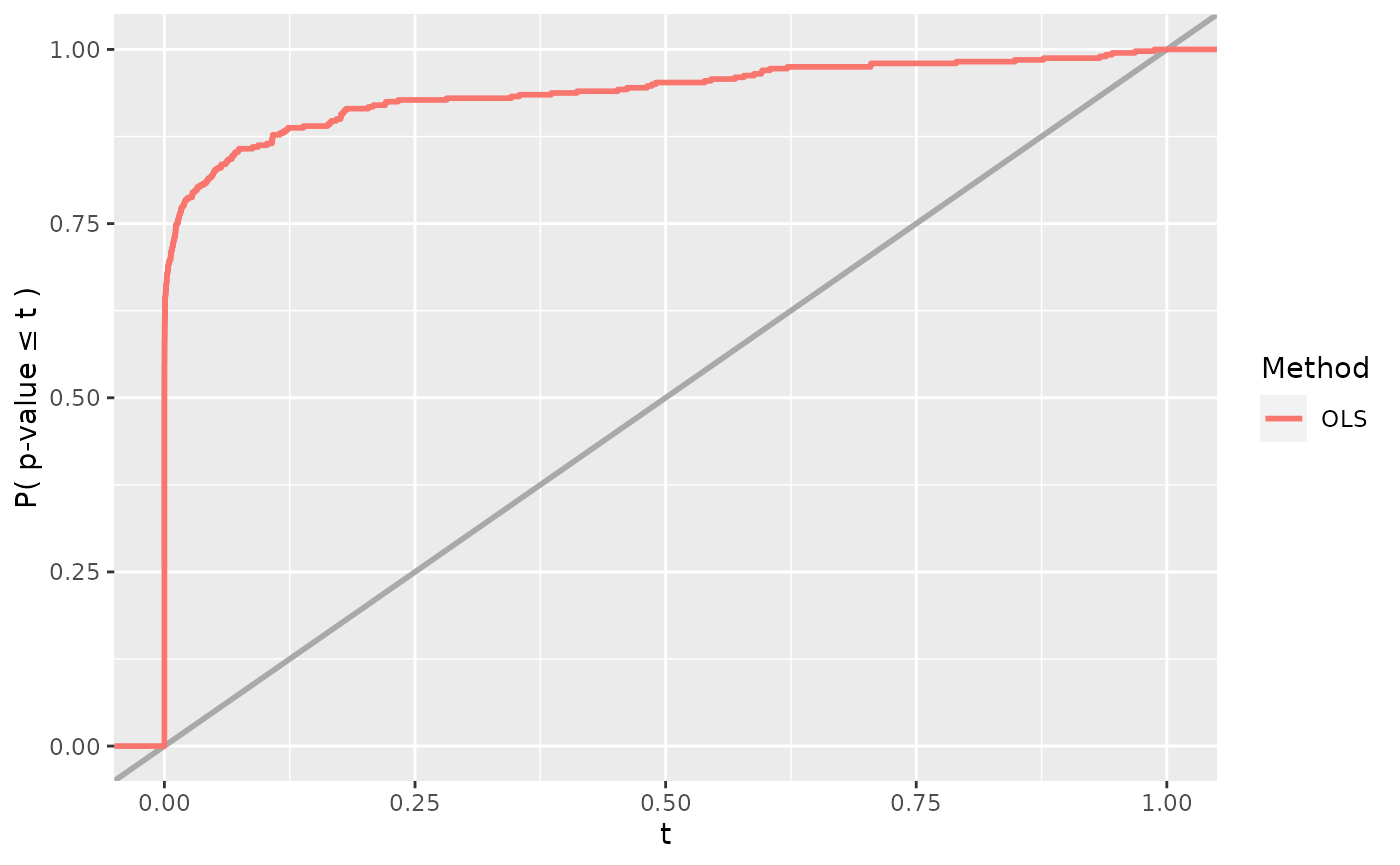
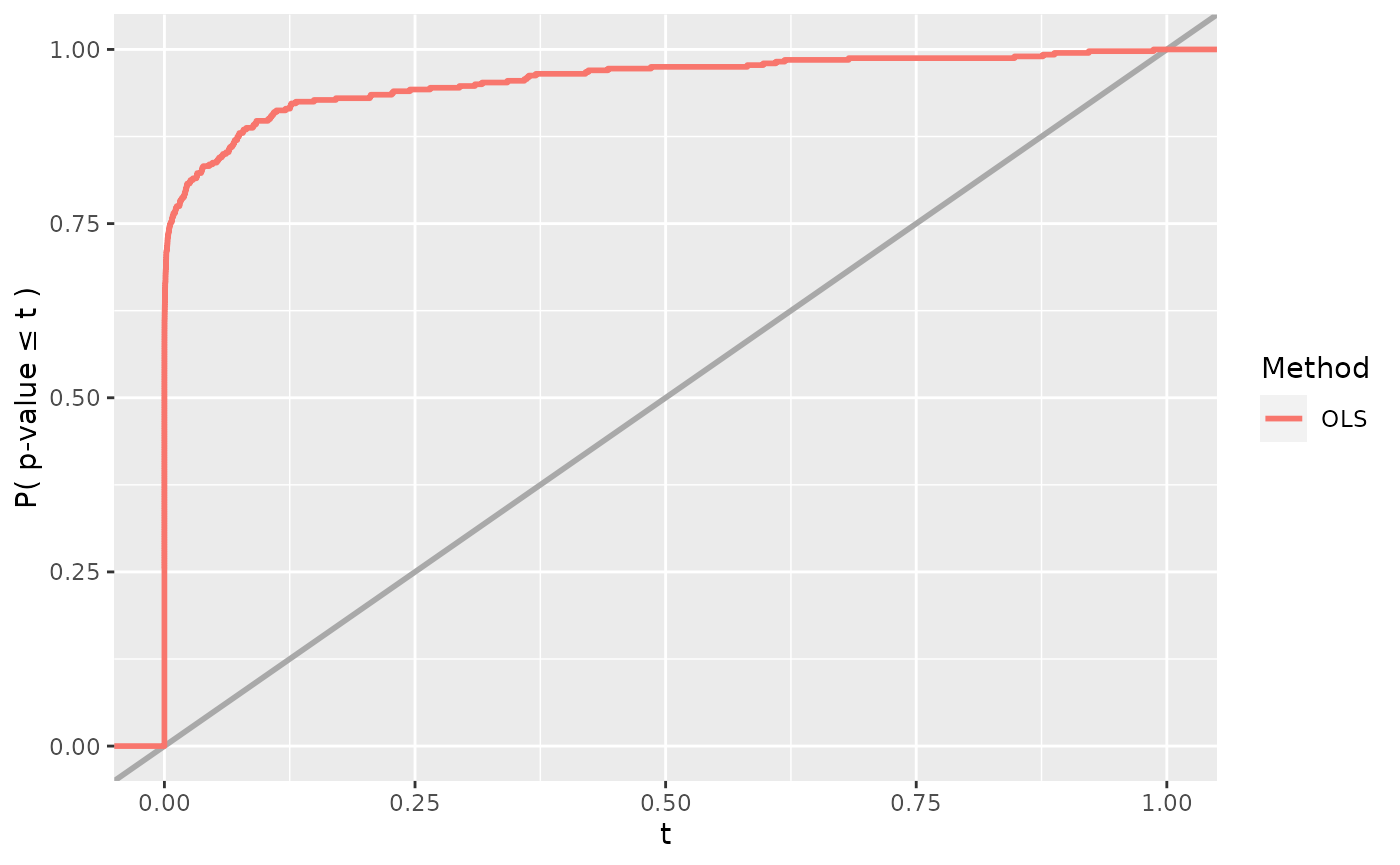
Built site for simChef: 0.0.0.9000@5c6629a

Changed region(s): [[0.0921, 0.0312, 0.7986, 0.3121]]

diff --git a/articles/simChef.html b/articles/simChef.html
@@ -269,20 +269,20 @@
 <div class="sourceCode" id="cb14"><pre class="downlit sourceCode r">
 <code class="sourceCode R"><span class="va">results</span> <span class="op">&lt;-</span> <span class="va">experiment</span><span class="op">$</span><span class="fu">run</span><span class="op">(</span>n_reps <span class="op">=</span> <span class="fl">100</span>, save <span class="op">=</span> <span class="cn">TRUE</span><span class="op">)</span>
 <span class="co">#&gt; Fitting Linear Regression Experiment...</span>
-<span class="co">#&gt; Fitting completed | time taken: 0.023753 minutes</span>
+<span class="co">#&gt; Fitting completed | time taken: 0.020864 minutes</span>
 <span class="co">#&gt; Saving fit results...</span>
-<span class="co">#&gt; Fit results saved | time taken: 0.010340 seconds</span>
+<span class="co">#&gt; Fit results saved | time taken: 0.012990 seconds</span>
 <span class="co">#&gt; ==============================</span>
 <span class="co">#&gt; Evaluating Linear Regression Experiment...</span>
 <span class="co">#&gt; `summarise()` has grouped output by 'dgp_name'. You can override using the `.groups` argument.</span>
-<span class="co">#&gt; Evaluation completed | time taken: 0.000217 minutes</span>
+<span class="co">#&gt; Evaluation completed | time taken: 0.000205 minutes</span>
 <span class="co">#&gt; Saving eval results...</span>
-<span class="co">#&gt; Eval results saved | time taken: 0.011737 seconds</span>
+<span class="co">#&gt; Eval results saved | time taken: 0.013946 seconds</span>
 <span class="co">#&gt; ==============================</span>
 <span class="co">#&gt; Visualizing Linear Regression Experiment...</span>
-<span class="co">#&gt; Visualization completed | time taken: 0.001805 minutes</span>
+<span class="co">#&gt; Visualization completed | time taken: 0.001795 minutes</span>
 <span class="co">#&gt; Saving visualize results...</span>
-<span class="co">#&gt; Visualize results saved | time taken: 0.054536 seconds</span>
+<span class="co">#&gt; Visualize results saved | time taken: 0.057298 seconds</span>
 <span class="co">#&gt; ==============================</span></code></pre></div>
 <p>or alternatively,</p>
 <div class="sourceCode" id="cb15"><pre class="downlit sourceCode r">
@@ -310,16 +310,16 @@
 <span class="co">#&gt; # A tibble: 100 × 5</span>
 <span class="co">#&gt;    rep   dgp_name            method_name `X1 p-value` `X2 p-value`</span>
 <span class="co">#&gt;    &lt;chr&gt; &lt;chr&gt;               &lt;chr&gt;              &lt;dbl&gt;        &lt;dbl&gt;</span>
-<span class="co">#&gt;  1 1     Linear Gaussian DGP OLS             2.17e-31        0.393</span>
-<span class="co">#&gt;  2 2     Linear Gaussian DGP OLS             3.90e-32        0.965</span>
-<span class="co">#&gt;  3 3     Linear Gaussian DGP OLS             1.07e-37        0.944</span>
-<span class="co">#&gt;  4 4     Linear Gaussian DGP OLS             1.99e-28        0.436</span>
-<span class="co">#&gt;  5 5     Linear Gaussian DGP OLS             4.50e-33        0.232</span>
-<span class="co">#&gt;  6 6     Linear Gaussian DGP OLS             2.60e-26        0.302</span>
-<span class="co">#&gt;  7 7     Linear Gaussian DGP OLS             9.71e-27        0.655</span>
-<span class="co">#&gt;  8 8     Linear Gaussian DGP OLS             6.34e-33        0.331</span>
-<span class="co">#&gt;  9 9     Linear Gaussian DGP OLS             8.26e-38        0.833</span>
-<span class="co">#&gt; 10 10    Linear Gaussian DGP OLS             8.27e-26        0.877</span>
+<span class="co">#&gt;  1 1     Linear Gaussian DGP OLS             1.76e-34       0.448 </span>
+<span class="co">#&gt;  2 2     Linear Gaussian DGP OLS             1.12e-31       0.128 </span>
+<span class="co">#&gt;  3 3     Linear Gaussian DGP OLS             1.60e-26       0.935 </span>
+<span class="co">#&gt;  4 4     Linear Gaussian DGP OLS             1.29e-33       0.504 </span>
+<span class="co">#&gt;  5 5     Linear Gaussian DGP OLS             6.91e-29       0.714 </span>
+<span class="co">#&gt;  6 6     Linear Gaussian DGP OLS             6.81e-25       0.254 </span>
+<span class="co">#&gt;  7 7     Linear Gaussian DGP OLS             2.29e-31       0.167 </span>
+<span class="co">#&gt;  8 8     Linear Gaussian DGP OLS             1.26e-34       0.0569</span>
+<span class="co">#&gt;  9 9     Linear Gaussian DGP OLS             1.15e-31       0.501 </span>
+<span class="co">#&gt; 10 10    Linear Gaussian DGP OLS             5.02e-32       0.737 </span>
 <span class="co">#&gt; # … with 90 more rows</span>
 <span class="va">results</span><span class="op">$</span><span class="va">eval_results</span>
 <span class="co">#&gt; $`Rejection Prob. (alpha = 0.1)`</span>
@@ -374,26 +374,26 @@
 <div class="sourceCode" id="cb21"><pre class="downlit sourceCode r">
 <code class="sourceCode R"><span class="va">vary_results</span> <span class="op">&lt;-</span> <span class="va">experiment</span><span class="op">$</span><span class="fu">run</span><span class="op">(</span>n_reps <span class="op">=</span> <span class="fl">100</span>, save <span class="op">=</span> <span class="cn">TRUE</span><span class="op">)</span>
 <span class="co">#&gt; Fitting Linear Regression Experiment...</span>
-<span class="co">#&gt; Fitting completed | time taken: 0.055848 minutes</span>
+<span class="co">#&gt; Fitting completed | time taken: 0.047861 minutes</span>
 <span class="co">#&gt; Saving fit results...</span>
-<span class="co">#&gt; Fit results saved | time taken: 0.024850 seconds</span>
+<span class="co">#&gt; Fit results saved | time taken: 0.022884 seconds</span>
 <span class="co">#&gt; ==============================</span>
 <span class="co">#&gt; Evaluating Linear Regression Experiment...</span>
-<span class="co">#&gt; Evaluation completed | time taken: 0.000284 minutes</span>
+<span class="co">#&gt; Evaluation completed | time taken: 0.000265 minutes</span>
 <span class="co">#&gt; Saving eval results...</span>
-<span class="co">#&gt; Eval results saved | time taken: 0.020658 seconds</span>
+<span class="co">#&gt; Eval results saved | time taken: 0.021625 seconds</span>
 <span class="co">#&gt; ==============================</span>
 <span class="co">#&gt; Visualizing Linear Regression Experiment...</span>
-<span class="co">#&gt; Visualization completed | time taken: 0.000271 minutes</span>
+<span class="co">#&gt; Visualization completed | time taken: 0.000215 minutes</span>
 <span class="co">#&gt; Saving visualize results...</span>
-<span class="co">#&gt; Visualize results saved | time taken: 0.062674 seconds</span>
+<span class="co">#&gt; Visualize results saved | time taken: 0.068065 seconds</span>
 <span class="co">#&gt; ==============================</span>
 <span class="va">vary_results</span><span class="op">$</span><span class="va">eval_results</span>
 <span class="co">#&gt; $`Rejection Prob. (alpha = 0.1)`</span>
 <span class="co">#&gt; # A tibble: 1 × 4</span>
 <span class="co">#&gt;   dgp_name            method_name `X1 Reject Prob.` `X2 Reject Prob.`</span>
 <span class="co">#&gt;   &lt;chr&gt;               &lt;chr&gt;                   &lt;dbl&gt;             &lt;dbl&gt;</span>
-<span class="co">#&gt; 1 Linear Gaussian DGP OLS                     0.862             0.085</span>
+<span class="co">#&gt; 1 Linear Gaussian DGP OLS                     0.898            0.0925</span>
 <span class="va">vary_results</span><span class="op">$</span><span class="va">visualize_results</span>
 <span class="co">#&gt; $Power</span></code></pre></div>
 <p><img src="simChef_files/figure-html/unnamed-chunk-22-1.png" width="700"></p>
@@ -446,29 +446,29 @@
   <span class="fu"><a href="../reference/update_funs.html">update_visualizer</a></span><span class="op">(</span><span class="va">power_plot</span>, name <span class="op">=</span> <span class="st">"Power"</span><span class="op">)</span> <span class="op">%&gt;%</span>
   <span class="fu"><a href="../reference/run_experiment.html">run_experiment</a></span><span class="op">(</span>n_reps <span class="op">=</span> <span class="fl">100</span>, save <span class="op">=</span> <span class="cn">TRUE</span><span class="op">)</span>
 <span class="co">#&gt; Fitting Linear Regression Experiment...</span>
-<span class="co">#&gt; Fitting completed | time taken: 0.056927 minutes</span>
+<span class="co">#&gt; Fitting completed | time taken: 0.048276 minutes</span>
 <span class="co">#&gt; Saving fit results...</span>
-<span class="co">#&gt; Fit results saved | time taken: 0.023065 seconds</span>
+<span class="co">#&gt; Fit results saved | time taken: 0.022964 seconds</span>
 <span class="co">#&gt; ==============================</span>
 <span class="co">#&gt; Evaluating Linear Regression Experiment...</span>
-<span class="co">#&gt; Evaluation completed | time taken: 0.000189 minutes</span>
+<span class="co">#&gt; Evaluation completed | time taken: 0.000159 minutes</span>
 <span class="co">#&gt; Saving eval results...</span>
-<span class="co">#&gt; Eval results saved | time taken: 0.021302 seconds</span>
+<span class="co">#&gt; Eval results saved | time taken: 0.021920 seconds</span>
 <span class="co">#&gt; ==============================</span>
 <span class="co">#&gt; Visualizing Linear Regression Experiment...</span>
-<span class="co">#&gt; Visualization completed | time taken: 0.000467 minutes</span>
+<span class="co">#&gt; Visualization completed | time taken: 0.000383 minutes</span>
 <span class="co">#&gt; Saving visualize results...</span>
-<span class="co">#&gt; Visualize results saved | time taken: 0.074160 seconds</span>
+<span class="co">#&gt; Visualize results saved | time taken: 0.078570 seconds</span>
 <span class="co">#&gt; ==============================</span>
 <span class="va">vary_results</span><span class="op">$</span><span class="va">eval_results</span>
 <span class="co">#&gt; $`Rejection Prob. (alpha = 0.1)`</span>
 <span class="co">#&gt; # A tibble: 4 × 5</span>
 <span class="co">#&gt;   dgp_name            method_name sigma `X1 Reject Prob.` `X2 Reject Prob.`</span>
 <span class="co">#&gt;   &lt;chr&gt;               &lt;chr&gt;       &lt;dbl&gt;             &lt;dbl&gt;             &lt;dbl&gt;</span>
-<span class="co">#&gt; 1 Linear Gaussian DGP OLS             1              1                 0.11</span>
-<span class="co">#&gt; 2 Linear Gaussian DGP OLS             2              1                 0.09</span>
-<span class="co">#&gt; 3 Linear Gaussian DGP OLS             4              0.96              0.03</span>
-<span class="co">#&gt; 4 Linear Gaussian DGP OLS             8              0.54              0.08</span>
+<span class="co">#&gt; 1 Linear Gaussian DGP OLS             1              1                 0.04</span>
+<span class="co">#&gt; 2 Linear Gaussian DGP OLS             2              1                 0.14</span>
+<span class="co">#&gt; 3 Linear Gaussian DGP OLS             4              0.97              0.1 </span>
+<span class="co">#&gt; 4 Linear Gaussian DGP OLS             8              0.63              0.11</span>
 <span class="va">vary_results</span><span class="op">$</span><span class="va">visualize_results</span>
 <span class="co">#&gt; $Power</span></code></pre></div>
 <p><img src="simChef_files/figure-html/unnamed-chunk-25-1.png" width="700"></p>
@@ -519,19 +519,19 @@
                               <span class="fu"><a href="https://rdrr.io/r/base/c.html">c</a></span><span class="op">(</span><span class="fl">1</span>, <span class="fl">2</span><span class="op">)</span><span class="op">)</span><span class="op">)</span> <span class="op">%&gt;%</span>
   <span class="fu"><a href="../reference/run_experiment.html">run_experiment</a></span><span class="op">(</span>n_reps <span class="op">=</span> <span class="fl">100</span>, save <span class="op">=</span> <span class="cn">TRUE</span><span class="op">)</span>
 <span class="co">#&gt; Fitting Linear Regression Experiment...</span>
-<span class="co">#&gt; Fitting completed | time taken: 0.128135 minutes</span>
+<span class="co">#&gt; Fitting completed | time taken: 0.107205 minutes</span>
 <span class="co">#&gt; Saving fit results...</span>
-<span class="co">#&gt; Fit results saved | time taken: 0.026384 seconds</span>
+<span class="co">#&gt; Fit results saved | time taken: 0.030394 seconds</span>
 <span class="co">#&gt; ==============================</span>
 <span class="co">#&gt; Evaluating Linear Regression Experiment...</span>
-<span class="co">#&gt; Evaluation completed | time taken: 0.000389 minutes</span>
+<span class="co">#&gt; Evaluation completed | time taken: 0.000289 minutes</span>
 <span class="co">#&gt; Saving eval results...</span>
-<span class="co">#&gt; Eval results saved | time taken: 0.027301 seconds</span>
+<span class="co">#&gt; Eval results saved | time taken: 0.028269 seconds</span>
 <span class="co">#&gt; ==============================</span>
 <span class="co">#&gt; Visualizing Linear Regression Experiment...</span>
-<span class="co">#&gt; Visualization completed | time taken: 0.004436 minutes</span>
+<span class="co">#&gt; Visualization completed | time taken: 0.003740 minutes</span>
 <span class="co">#&gt; Saving visualize results...</span>
-<span class="co">#&gt; Visualize results saved | time taken: 0.109635 seconds</span>
+<span class="co">#&gt; Visualize results saved | time taken: 0.126643 seconds</span>
 <span class="co">#&gt; ==============================</span>
 <span class="co"># run experiment across values of rho (correlation)</span>
 <span class="va">vary_cor_results</span> <span class="op">&lt;-</span> <span class="va">experiment</span> <span class="op">%&gt;%</span>
@@ -540,19 +540,19 @@
                   rho <span class="op">=</span> <span class="fu"><a href="https://rdrr.io/r/base/c.html">c</a></span><span class="op">(</span><span class="fl">0</span>, <span class="fl">0.2</span>, <span class="fl">0.5</span>, <span class="fl">0.9</span><span class="op">)</span><span class="op">)</span> <span class="op">%&gt;%</span>
   <span class="fu"><a href="../reference/run_experiment.html">run_experiment</a></span><span class="op">(</span>n_reps <span class="op">=</span> <span class="fl">100</span>, save <span class="op">=</span> <span class="cn">TRUE</span><span class="op">)</span>
 <span class="co">#&gt; Fitting Linear Regression Experiment...</span>
-<span class="co">#&gt; Fitting completed | time taken: 0.058162 minutes</span>
+<span class="co">#&gt; Fitting completed | time taken: 0.050296 minutes</span>
 <span class="co">#&gt; Saving fit results...</span>
-<span class="co">#&gt; Fit results saved | time taken: 0.026913 seconds</span>
+<span class="co">#&gt; Fit results saved | time taken: 0.029073 seconds</span>
 <span class="co">#&gt; ==============================</span>
 <span class="co">#&gt; Evaluating Linear Regression Experiment...</span>
-<span class="co">#&gt; Evaluation completed | time taken: 0.000193 minutes</span>
+<span class="co">#&gt; Evaluation completed | time taken: 0.000159 minutes</span>
 <span class="co">#&gt; Saving eval results...</span>
-<span class="co">#&gt; Eval results saved | time taken: 0.024619 seconds</span>
+<span class="co">#&gt; Eval results saved | time taken: 0.029531 seconds</span>
 <span class="co">#&gt; ==============================</span>
 <span class="co">#&gt; Visualizing Linear Regression Experiment...</span>
-<span class="co">#&gt; Visualization completed | time taken: 0.001993 minutes</span>
+<span class="co">#&gt; Visualization completed | time taken: 0.001698 minutes</span>
 <span class="co">#&gt; Saving visualize results...</span>
-<span class="co">#&gt; Visualize results saved | time taken: 0.115325 seconds</span>
+<span class="co">#&gt; Visualize results saved | time taken: 0.126231 seconds</span>
 <span class="co">#&gt; ==============================</span></code></pre></div>
 </div>
 <div id="experiment-as-an-r6-class" class="section level2">
@@ -705,15 +705,15 @@
 <div class="sourceCode" id="cb36"><pre class="downlit sourceCode r">
 <code class="sourceCode R"><span class="va">fit_results</span> <span class="op">&lt;-</span> <span class="va">experiment</span><span class="op">$</span><span class="fu">fit</span><span class="op">(</span>n_reps <span class="op">=</span> <span class="fl">100</span><span class="op">)</span>
 <span class="co">#&gt; Fitting Linear Regression Experiment...</span>
-<span class="co">#&gt; Fitting completed | time taken: 0.057523 minutes</span>
+<span class="co">#&gt; Fitting completed | time taken: 0.050354 minutes</span>
 <span class="co">#&gt; ==============================</span>
 <span class="va">eval_results</span> <span class="op">&lt;-</span> <span class="va">experiment</span><span class="op">$</span><span class="fu">evaluate</span><span class="op">(</span><span class="va">fit_results</span><span class="op">)</span>
 <span class="co">#&gt; Evaluating Linear Regression Experiment...</span>
-<span class="co">#&gt; Evaluation completed | time taken: 0.000216 minutes</span>
+<span class="co">#&gt; Evaluation completed | time taken: 0.000165 minutes</span>
 <span class="co">#&gt; ==============================</span>
 <span class="va">visualize_results</span> <span class="op">&lt;-</span> <span class="va">experiment</span><span class="op">$</span><span class="fu">visualize</span><span class="op">(</span><span class="va">fit_results</span>, <span class="va">eval_results</span><span class="op">)</span>
 <span class="co">#&gt; Visualizing Linear Regression Experiment...</span>
-<span class="co">#&gt; Visualization completed | time taken: 0.001797 minutes</span>
+<span class="co">#&gt; Visualization completed | time taken: 0.001536 minutes</span>
 <span class="co">#&gt; ==============================</span></code></pre></div>
 <p>or alternatively,</p>
 <div class="sourceCode" id="cb37"><pre class="downlit sourceCode r">
@@ -730,38 +730,38 @@
 <span class="co">#&gt;  $ Linear Gaussian DGP:List of 4</span>
 <span class="co">#&gt;   ..$ :List of 1</span>
 <span class="co">#&gt;   .. ..$ :List of 2</span>
-<span class="co">#&gt;   .. .. ..$ X: num [1:200, 1:2] -1.511 0.29 -0.557 0.169 -0.459 ...</span>
+<span class="co">#&gt;   .. .. ..$ X: num [1:200, 1:2] -0.136 1.015 -0.315 -1.315 1.958 ...</span>
 <span class="co">#&gt;   .. .. .. ..- attr(*, "dimnames")=List of 2</span>
 <span class="co">#&gt;   .. .. .. .. ..$ : NULL</span>
 <span class="co">#&gt;   .. .. .. .. ..$ : NULL</span>
-<span class="co">#&gt;   .. .. ..$ y: num [1:200, 1] -1.756 -0.514 1.576 0.387 -1.172 ...</span>
+<span class="co">#&gt;   .. .. ..$ y: num [1:200, 1] -0.0712 0.9183 -1.5969 -1.9723 3.0852 ...</span>
 <span class="co">#&gt;   .. ..- attr(*, "params")=List of 1</span>
 <span class="co">#&gt;   .. .. ..$ sigma: num 1</span>
 <span class="co">#&gt;   ..$ :List of 1</span>
 <span class="co">#&gt;   .. ..$ :List of 2</span>
-<span class="co">#&gt;   .. .. ..$ X: num [1:200, 1:2] -0.874 -1.289 -0.179 -0.608 0.712 ...</span>
+<span class="co">#&gt;   .. .. ..$ X: num [1:200, 1:2] 2.038 1.656 -0.793 0.508 -0.864 ...</span>
 <span class="co">#&gt;   .. .. .. ..- attr(*, "dimnames")=List of 2</span>
 <span class="co">#&gt;   .. .. .. .. ..$ : NULL</span>
 <span class="co">#&gt;   .. .. .. .. ..$ : NULL</span>
-<span class="co">#&gt;   .. .. ..$ y: num [1:200, 1] 1.2151 -5.4295 -0.3099 0.0279 -3.0058 ...</span>
+<span class="co">#&gt;   .. .. ..$ y: num [1:200, 1] 0.531 6.0084 -4.2992 -0.0693 -1.5052 ...</span>
 <span class="co">#&gt;   .. ..- attr(*, "params")=List of 1</span>
 <span class="co">#&gt;   .. .. ..$ sigma: num 2</span>
 <span class="co">#&gt;   ..$ :List of 1</span>
 <span class="co">#&gt;   .. ..$ :List of 2</span>
-<span class="co">#&gt;   .. .. ..$ X: num [1:200, 1:2] -0.5875 2.0067 0.0872 -1.2796 0.2322 ...</span>
+<span class="co">#&gt;   .. .. ..$ X: num [1:200, 1:2] 0.625 0.828 0.645 -0.161 1.48 ...</span>
 <span class="co">#&gt;   .. .. .. ..- attr(*, "dimnames")=List of 2</span>
 <span class="co">#&gt;   .. .. .. .. ..$ : NULL</span>
 <span class="co">#&gt;   .. .. .. .. ..$ : NULL</span>
-<span class="co">#&gt;   .. .. ..$ y: num [1:200, 1] -2.864 -0.317 2.557 -2.254 7.477 ...</span>
+<span class="co">#&gt;   .. .. ..$ y: num [1:200, 1] 3.60973 -2.02026 -1.42179 2.20126 0.00107 ...</span>
 <span class="co">#&gt;   .. ..- attr(*, "params")=List of 1</span>
 <span class="co">#&gt;   .. .. ..$ sigma: num 4</span>
 <span class="co">#&gt;   ..$ :List of 1</span>
 <span class="co">#&gt;   .. ..$ :List of 2</span>
-<span class="co">#&gt;   .. .. ..$ X: num [1:200, 1:2] 0.493 -0.635 -1.649 1.249 0.767 ...</span>
+<span class="co">#&gt;   .. .. ..$ X: num [1:200, 1:2] 2.253 0.201 0.2731 0.0851 -1.3794 ...</span>
 <span class="co">#&gt;   .. .. .. ..- attr(*, "dimnames")=List of 2</span>
 <span class="co">#&gt;   .. .. .. .. ..$ : NULL</span>
 <span class="co">#&gt;   .. .. .. .. ..$ : NULL</span>
-<span class="co">#&gt;   .. .. ..$ y: num [1:200, 1] 5.83 0.28 16.73 1.67 -1.66 ...</span>
+<span class="co">#&gt;   .. .. ..$ y: num [1:200, 1] -0.373 14.151 6.564 -5.272 5.887 ...</span>
 <span class="co">#&gt;   .. ..- attr(*, "params")=List of 1</span>
 <span class="co">#&gt;   .. .. ..$ sigma: num 8</span></code></pre></div>
 <p>or alternatively,</p>

diff --git a/reference/prettyDT.html b/reference/prettyDT.html
@@ -234,13 +234,13 @@ returns a list of two:</p><dl>
 <span class='co'>## Bold max value of each numeric column of Iris data in red</span>
 <span class='fu'>prettyDT</span><span class='op'>(</span><span class='va'>iris</span>, caption <span class='op'>=</span> <span class='st'>"Iris Data Table"</span>,
          bold_function <span class='op'>=</span> <span class='st'>". == max(.)"</span>, bold_margin <span class='op'>=</span> <span class='fl'>2</span>,
-         bold_scheme <span class='op'>=</span> <span class='fu'><a href='https://rdrr.io/r/base/c.html'>c</a></span><span class='op'>(</span><span class='cn'>T</span>, <span class='cn'>T</span>, <span class='cn'>T</span>, <span class='cn'>T</span>, <span class='cn'>F</span><span class='op'>)</span>, bold_color <span class='op'>=</span> <span class='st'>"red"</span><span class='op'>)</span>
+         bold_scheme <span class='op'>=</span> <span class='fu'><a href='https://rdrr.io/r/base/c.html'>c</a></span><span class='op'>(</span><span class='cn'>TRUE</span>, <span class='cn'>TRUE</span>, <span class='cn'>TRUE</span>, <span class='cn'>TRUE</span>, <span class='cn'>FALSE</span><span class='op'>)</span>, bold_color <span class='op'>=</span> <span class='st'>"red"</span><span class='op'>)</span>
             
 <span class='co'>## Bold min value of each row in Iris data</span>
 <span class='fu'>prettyDT</span><span class='op'>(</span><span class='va'>iris</span> <span class='op'>%&gt;%</span> <span class='fu'>dplyr</span><span class='fu'>::</span><span class='fu'><a href='https://dplyr.tidyverse.org/reference/select.html'>select</a></span><span class='op'>(</span><span class='op'>-</span><span class='va'>Species</span><span class='op'>)</span>, 
-         sigfig <span class='op'>=</span> <span class='cn'>T</span>, caption <span class='op'>=</span> <span class='st'>"Iris Data Table"</span>,
+         sigfig <span class='op'>=</span> <span class='cn'>TRUE</span>, caption <span class='op'>=</span> <span class='st'>"Iris Data Table"</span>,
          na_disp <span class='op'>=</span> <span class='st'>"NA"</span>, bold_function <span class='op'>=</span> <span class='st'>". == min(.)"</span>, bold_margin <span class='op'>=</span> <span class='fl'>1</span>,
-         bold_scheme <span class='op'>=</span> <span class='cn'>T</span>, bold_color <span class='op'>=</span> <span class='st'>"black"</span><span class='op'>)</span>
+         bold_scheme <span class='op'>=</span> <span class='cn'>TRUE</span>, bold_color <span class='op'>=</span> <span class='st'>"black"</span><span class='op'>)</span>
 </div></pre>
   </div>
   <div class="col-md-3 hidden-xs hidden-sm" id="pkgdown-sidebar">

diff --git a/reference/Visualizer.html b/reference/Visualizer.html
@@ -190,7 +190,7 @@ Markdown report; if <code>FALSE</code>, hide output in the R Markdown report.</p
 </dl><p></div></p>
 <h4 class='hasAnchor' id='arguments'><a class='anchor' href='#arguments'></a>Details</h4>
 <p>When visualizing or running the <code>Experiment</code> (see
-<code>Experiment$visualize() or <code>Experiment$run()</code></code>), the named
+<code>Experiment$visualize()</code> or <code>Experiment$run()</code>), the named
 arguments <code>fit_results</code>, <code>eval_results</code>, and
 <code>vary_params</code> are automatically passed into the <code>Visualizer</code>
 function <code>visualizer_fun()</code> and serve as placeholders for the

diff --git a/reference/Evaluator.html b/reference/Evaluator.html
@@ -185,7 +185,7 @@ R Markdown report.</p></dd>
 </dl><p></div></p>
 <h4 class='hasAnchor' id='arguments'><a class='anchor' href='#arguments'></a>Details</h4>
 <p>When evaluating or running the <code>Experiment</code> (see
-<code>Experiment$evaluate() or <code>Experiment$run()</code></code>), the named
+<code>Experiment$evaluate()</code> or <code>Experiment$run()</code>), the named
 arguments <code>fit_results</code> and <code>vary_params</code> are automatically
 passed into the <code>Evaluator</code> function <code>eval_fun()</code> and serve
 as placeholders for the <code>Experiment$fit()</code> results (i.e., the

diff --git a/articles/parallel.html b/articles/parallel.html
@@ -235,7 +235,7 @@
   <span class="op">)</span>
 <span class="op">)</span>
 <span class="co">#&gt; Fitting base...</span>
-<span class="co">#&gt; Fitting completed | time taken: 0.846709 minutes</span>
+<span class="co">#&gt; Fitting completed | time taken: 0.997003 minutes</span>
 <span class="co">#&gt; ==============================</span>
 <span class="co">#&gt; # A tibble: 136 × 16</span>
 <span class="co">#&gt;      rep dgp_name   method_name     p   rho sparsity nonzero_coeff alpha term   </span>

diff --git a/reference/remove_funs.html b/reference/remove_funs.html
@@ -143,6 +143,10 @@ Experiment." />
     <table class="ref-arguments">
     <colgroup><col class="name" /><col class="desc" /></colgroup>
     <tr>
+      <th>experiment</th>
+      <td><p>An <code>Experiment</code> object.</p></td>
+    </tr>
+    <tr>
       <th>name</th>
       <td><p>A name to identify the object to be removed. If <code>NULL</code>
 (default), remove all objects of that class from the experiment. For
